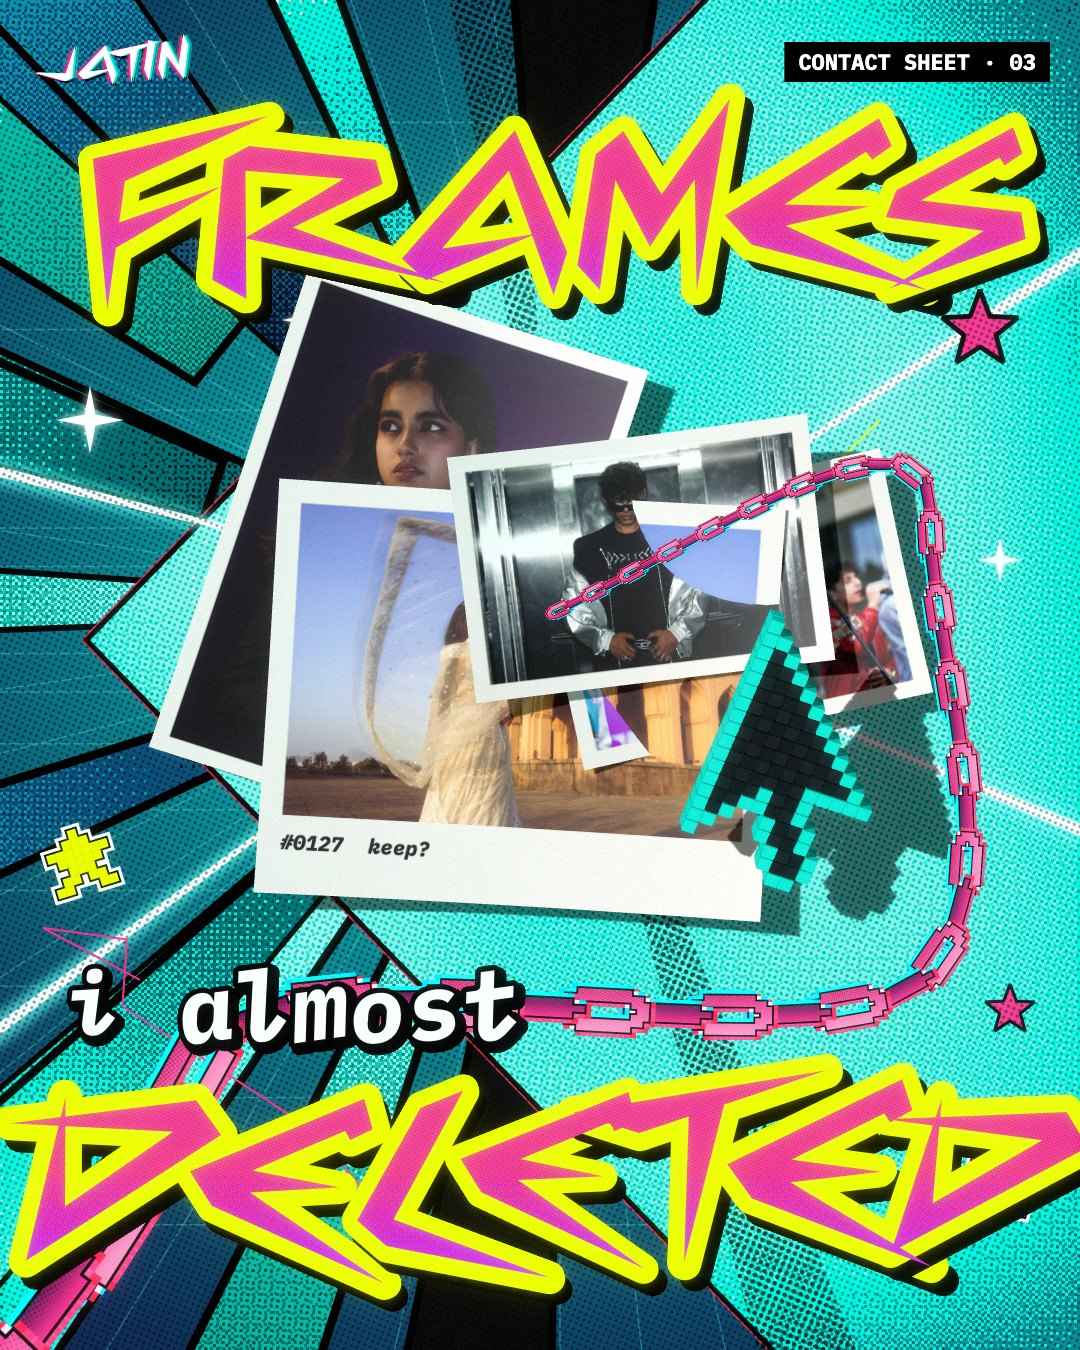
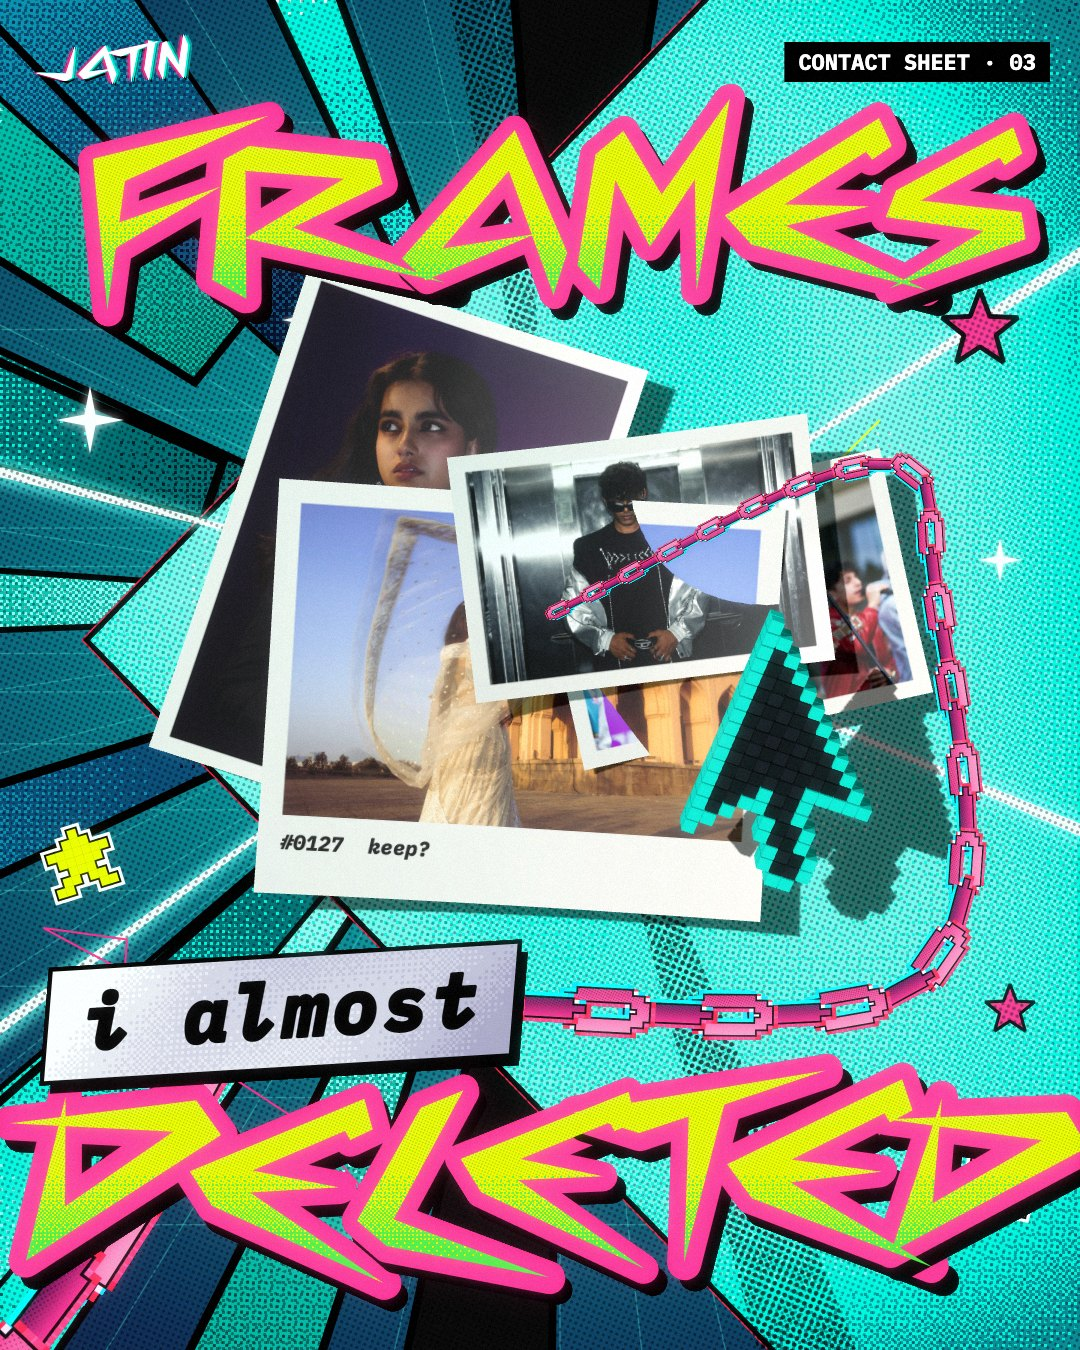
Content look round 5: silver plates for the small words, round 3 headline colours

Changed region(s): [[0.0, 0.6844, 1.0, 0.9644], [0.0611, 0.0622, 0.9778, 0.2489]]

diff --git a/docs/studio/studio.html b/docs/studio/studio.html
@@ -41,6 +41,29 @@ function glyphRun(text,font,size,track){
   for(const ch of text){const w=c.measureText(ch).width;g.push({ch,x,w});x+=w+track*size}
   return{g,w:x-track*size};
 }
+// The site's silver plate (ABOUT's name tag and copy plate, round 5 of the posts, his ask): paper dithered into the
+// silver ramp (white -> lavender grey, DitherFX's light-shape ramp) in 3px Bayer cells, skewed, an ink rule, a hard
+// ink drop, and ink type in Plex Mono italic 700, fattened with an ink stroke so it reads bold.
+function silverPlate(O,text,cx,cy,size,rot,cw){
+  const font=`italic 700 ${size}px "IBM Plex Mono"`,track=size*.06,run=glyphRun(text,'italic 700 "IBM Plex Mono"',size,.06);
+  const padX=size*.5,padY=size*.3,w=run.w+padX*2,h=size*.9+padY*2,cell=Math.max(3,Math.round(cw/360)),sk=Math.tan(-8*Math.PI/180);
+  const lw=Math.ceil(w/cell),lh=Math.ceil(h/cell),dc=mk(lw,lh),dx=dc.getContext('2d'),im=dx.createImageData(lw,lh),d=im.data;
+  const W=[255,255,255],lo=[171,165,196],ramp=[lo,[213,210,226],W,W,W].map((c,i)=>i<3?c:W);
+  const RAMP5=[[171,165,196],[192,188,212],[213,210,226],[234,232,240],[255,255,255]];
+  for(let y=0;y<lh;y++)for(let x=0;x<lw;x++){const u=x/lw,v=y/lh;
+    // light on the left, stepping down to lavender toward the right end, with one slow band across it
+    let tone=1-u*.95+.18*Math.sin(6.283*(u*1.2+v*.35)+1.3);tone=clamp(tone);
+    const f=tone*4,k=f|0,c=RAMP5[Math.min(4,k+((f-k)>bay(x,y)?1:0))],o=(y*lw+x)*4;d[o]=c[0];d[o+1]=c[1];d[o+2]=c[2];d[o+3]=255}
+  dx.putImageData(im,0,0);
+  O.save();O.translate(cx,cy);O.rotate(rot);O.transform(1,0,sk,1,0,0);
+  O.fillStyle='#000';O.fillRect(-w/2+size*.12,-h/2+size*.14,w,h);
+  O.imageSmoothingEnabled=false;O.drawImage(dc,-w/2,-h/2,w,h);O.imageSmoothingEnabled=true;
+  O.lineWidth=Math.max(4,size*.06);O.strokeStyle='#000';O.strokeRect(-w/2,-h/2,w,h);
+  O.transform(1,0,-sk*.5,1,0,0);O.font=font;O.textBaseline='middle';O.textAlign='left';O.lineJoin='round';
+  O.fillStyle='#000';O.strokeStyle='#000';O.lineWidth=size*.05;
+  run.g.forEach(g=>{O.strokeText(g.ch,-run.w/2+g.x,size*.04);O.fillText(g.ch,-run.w/2+g.x,size*.04)});
+  O.restore();
+}
 function paintType(cw,ch,lines,opt={}){
   const out=mk(cw,ch),O=out.getContext('2d');
   const fillC=mk(cw,ch),F=fillC.getContext('2d');
@@ -53,6 +76,7 @@ function paintType(cw,ch,lines,opt={}){
     const run=glyphRun(L.t,style==='mono'?'italic 700 "IBM Plex Mono"':(style==='pix'?'"VT323"':'"Cyberway Riders"'),size,L.track??(style==='marker'?.1:.02));
     let x0=L.x*cw-(L.align==='left'?0:L.align==='right'?run.w:run.w/2);
     const y0=L.y*ch;
+    if(style==='plate'){const rot=L.rot||0,cx=L.x*cw,cy=y0;late.push(()=>silverPlate(O,L.t,cx,cy,size,rot,cw));continue}
     bands.push({y:y0-size*.55,h:size*1.05});
     run.g.forEach((gl,i)=>{
       const seed=(L.seed||1)*97+i;
@@ -267,8 +291,9 @@ const SHARD_FAM={
   [PAL.pink]:[['#3a0a52','#9a1460','#ff2e88','#ff8cc0'],['#2a0640','#7a12b0','#c81ee0','#e48cf2'],['#14043c','#3a0a6a','#7a12b0','#c81ee0'],['#5a0a3a','#c81ee0','#ff2e88','#ffc2dc']],
   [PAL.cyan]:[['#00262a','#006f73','#00f0d8','#7ffcef'],['#04122e','#0a4f7a','#0b8fb0','#00f0d8'],['#00201c','#0b6a60','#00b8a6','#7ffcef'],['#06183a','#0a4f7a','#00f0d8','#e9fffc']],
   [PAL.acid]:[['#1a3d00','#39e639','#e8ff00','#f4ff8a'],['#062a0c','#147a2a','#39e639','#a8ff6a'],['#0a2a06','#2e6a10','#8ac600','#e8ff00'],['#1a3d00','#6fbf00','#e8ff00','#fdffe0']]};
-// the type takes the colours that fight the world: acid on pink, pink on cyan, pink on acid with a purple rule
-const TYPE_ON={[PAL.pink]:{fill:PAL.acid,outline:PAL.cyan,foot:PAL.green},[PAL.cyan]:{fill:PAL.pink,outline:PAL.acid,foot:PAL.mag},[PAL.acid]:{fill:PAL.pink,outline:PAL.purple,foot:PAL.mag}};
+// headline colours: round 3's acid fill, green foot and pink rim on every world (his call, 2026-11-10; the round 4
+// contrast pairs were reverted)
+const R3TYPE={fill:PAL.acid,outline:PAL.pink,foot:PAL.green},TYPE_ON={[PAL.pink]:R3TYPE,[PAL.cyan]:R3TYPE,[PAL.acid]:R3TYPE};
 const worldType=(acc,lines)=>paintType(PW*2,PH*2,lines.map(L=>L.style?L:{...L,fill:TYPE_ON[acc].fill,outline:TYPE_ON[acc].outline}),{foot:TYPE_ON[acc].foot});
 function siteWorld(acc,o){
   SEED=o.seed||7;const w=PW,h=PH,c=mk(w*SS2,h*SS2),x=c.getContext('2d');x.scale(SS2,SS2);
@@ -425,7 +450,7 @@ DRAFTS.p1=async()=>{ // STOP editing SAFE — pink world; the chain comes out of
   const [dc,dx]=frameCanvas();[[0,-210,-230,1.2],[1,310,-400,-.7]].forEach(([n,ox,oy,da])=>{const l=links[brk+n];chLink(dx,l.i,l.x+ox,l.y+oy,l.a+da,l.c*1.1,pal)});SCN.add(framePlane(dc,1.9));
   const T=worldType(acc,[
     {t:'STOP',size:.27,x:.48,y:.185,rot:-.07,seed:3},
-    {t:'editing',style:'mono',size:.085,x:.7,y:.31,rot:-.06,seed:5},
+    {t:'editing',style:'plate',size:.07,x:.72,y:.31,rot:-.05,seed:5},
     {t:'SAFE',size:.28,x:.5,y:.435,rot:.04,seed:9}
   ]);
   SCN.add(framePlane(T,.9));
@@ -447,7 +472,7 @@ DRAFTS.p2=async()=>{ // FRAMES i almost DELETED — cyan world; the stack sits i
   const [ux,uz]=at(800,760,2.2);cur.position.set(ux,2.2,uz);cur.rotation.set(-1.15,0,-.35);SCN.add(cur);
   const T=worldType(acc,[
     {t:'FRAMES',size:.185,x:.52,y:.16,rot:-.05,seed:11},
-    {t:'i almost',style:'mono',size:.085,x:.27,y:.75,rot:-.08,seed:2},
+    {t:'i almost',style:'plate',size:.07,x:.26,y:.75,rot:-.06,seed:2},
     {t:'DELETED',size:.19,x:.5,y:.87,rot:.05,seed:21}
   ]);
   SCN.add(framePlane(T,1.5));
@@ -461,7 +486,7 @@ DRAFTS.p3=async()=>{ // CUT IT in one NIGHT — acid world; the light comes out 
     pixels:[[1010,1120,PAL.pink,1,.25],[70,1250,PAL.cyan,0,-.2]],scribbles:[[120,760,'#ff2e88'],[900,1120,'#00f0d8']]});
   const T=worldType(acc,[
     {t:'CUT IT',size:.25,x:.49,y:.17,rot:-.06,seed:4},
-    {t:'in one',style:'mono',size:.08,x:.76,y:.285,rot:-.05,seed:8},
+    {t:'in one',style:'plate',size:.068,x:.76,y:.285,rot:-.05,seed:8},
     {t:'NIGHT',size:.25,x:.5,y:.385,rot:.04,seed:6}
   ]);
   SCN.add(framePlane(T,1.2));

diff --git a/docs/concepts/2026-11-09-content-look/index.html b/docs/concepts/2026-11-09-content-look/index.html
@@ -40,9 +40,28 @@ figcaption b{color:var(--fg)}
 </style>
 
 <main class="wrap">
-  <p class="lbl">justjatin · content look · round 4 · posts · 10 nov 2026</p>
+  <p class="lbl">justjatin · content look · round 5 · posts · 10 nov 2026</p>
   <h1>Your language, at their production level</h1>
   <p class="lede">Only the design and craft of your four references were looked at, never the topic. Below: what makes them land, how each move maps onto your language, and ten first drafts (3 posts, 7 reel frames). The drafts are rendered in a real 3D lighting pass with your own photos, not drawn flat.</p>
+
+  <h2>Round 5 · silver plates, round 3 type colours</h2>
+  <p>Your notes: <i>"switch these normal font's to our silver plate look but make the text look bold"</i>, then <i>"also keep the old font colour scheme from R3"</i>.</p>
+  <ul class="fix">
+    <li><b>The small words are silver plates</b>, the ABOUT name tag and copy plate: paper dithered from white into lavender silver in 3px Bayer cells, skewed, with an ink rule and a hard ink drop.</li>
+    <li><b>The words are bold:</b> ink Plex Mono italic 700, thickened with an ink stroke.</li>
+    <li><b>Headlines are back to round 3's colours</b> on every world: acid fill, green foot, pink rim. The dithered one-colour shards from round 4 stay.</li>
+  </ul>
+  <div class="posts">
+    <figure><img src="img/p1.jpg" width="1080" height="1350" alt="Round 5 post: STOP editing SAFE, editing on a silver dithered plate in bold ink type, acid and pink headline over pink dithered shards"><figcaption><b>STOP editing SAFE.</b></figcaption></figure>
+    <figure><img src="img/p2.jpg" width="1080" height="1350" alt="Round 5 post: FRAMES i almost DELETED, i almost on a silver plate, acid and pink headline over cyan dithered shards"><figcaption><b>FRAMES i almost DELETED.</b></figcaption></figure>
+    <figure><img src="img/p3.jpg" width="1080" height="1350" alt="Round 5 post: CUT IT in one NIGHT, in one on a silver plate, acid and pink headline over acid dithered shards"><figcaption><b>CUT IT in one NIGHT.</b></figcaption></figure>
+  </div>
+  <p class="lbl" style="margin-top:28px">Round 4, for comparison</p>
+  <div class="ba">
+    <figure><img src="img/p1-round4.jpg" width="1080" height="1350" alt="Round 4 STOP editing SAFE with cyan-rimmed type" loading="lazy"><figcaption>R4</figcaption></figure>
+    <figure><img src="img/p2-round4.jpg" width="1080" height="1350" alt="Round 4 FRAMES i almost DELETED with pink type" loading="lazy"><figcaption>R4</figcaption></figure>
+    <figure><img src="img/p3-round4.jpg" width="1080" height="1350" alt="Round 4 CUT IT in one NIGHT with pink and purple type" loading="lazy"><figcaption>R4</figcaption></figure>
+  </div>
 
   <h2>Round 4 · one colour world per post</h2>
   <p>Your note: <i>"the scattered shards in the background needs to have the same dither look we have and keep the same colour consistency as colour theme of the post itself and the text should be contrasting colour to that colour scheme."</i></p>
@@ -51,11 +70,6 @@ figcaption b{color:var(--fg)}
     <li><b>One family per post.</b> Pink: pinks, magentas and purples. Cyan: cyans, teals and deep blues. Acid: acids and greens. The multi-colour shard palette is gone.</li>
     <li><b>The type fights the world.</b> Same treatment, contrasting colours. On pink: an acid fill with a green foot and a cyan rim. On cyan: a pink fill with a magenta foot and an acid rim. On acid: a pink fill with a magenta foot and a purple rim.</li>
   </ul>
-  <div class="posts">
-    <figure><img src="img/p1.jpg" width="1080" height="1350" alt="Round 4 post: STOP editing SAFE in acid with a cyan rim over dithered pink, magenta and purple shards"><figcaption><b>STOP editing SAFE.</b> Pink world, acid and cyan type.</figcaption></figure>
-    <figure><img src="img/p2.jpg" width="1080" height="1350" alt="Round 4 post: FRAMES i almost DELETED in pink with an acid rim over dithered cyan and teal shards"><figcaption><b>FRAMES i almost DELETED.</b> Cyan world, pink and acid type.</figcaption></figure>
-    <figure><img src="img/p3.jpg" width="1080" height="1350" alt="Round 4 post: CUT IT in one NIGHT in pink with a purple rim over dithered acid and green shards"><figcaption><b>CUT IT in one NIGHT.</b> Acid world, pink and purple type.</figcaption></figure>
-  </div>
   <p class="lbl" style="margin-top:28px">Round 3, for comparison</p>
   <div class="ba">
     <figure><img src="img/p1-round3.jpg" width="1080" height="1350" alt="Round 3 STOP editing SAFE with multi-colour flat shards" loading="lazy"><figcaption>R3: mixed flat shards.</figcaption></figure>

diff --git a/docs/concepts/2026-11-09-content-look/README.md b/docs/concepts/2026-11-09-content-look/README.md
@@ -112,3 +112,19 @@ colour scheme."
 | Acid | pink | magenta | purple |
 
 **Stills:** round 3 is `img/p*-round3.jpg`; round 4 is `img/p*.jpg`.
+
+## Round 5 — 2026-11-10 · silver plates, round 3 type colours
+
+**His notes, in his words:** "switch these normal font's to our silver plate look but make the text look bold" (on
+the mono words, with the ABOUT "WHO I AM" tag as the reference), then "and also keep the old font colour scheme from R3".
+
+**Built:**
+- **`silverPlate()`** (type style `plate`): the site's silver plate, built from:
+  - paper dithered in 3px Bayer cells from white into lavender silver (DitherFX's light-shape ramp, #aba5c4 → #fff),
+    light on the left and stepping down to the right;
+  - skewX(−8°), an ink rule and a hard ink drop;
+  - ink Plex Mono italic 700, thickened with an ink stroke for weight.
+- **Headlines:** back to round 3's acid fill, green foot and pink rim on every world (`R3TYPE`). The round 4 contrast
+  pairs were reverted. The dithered one-family shards stay.
+
+**Stills:** round 4 is `img/p*-round4.jpg`; round 5 is `img/p*.jpg`.

diff --git a/docs/HANDOFF.md b/docs/HANDOFF.md
@@ -3,6 +3,12 @@
 Newest on top. Each entry: date · did · in flight · next · watch out.
 
 ---
+## 2026-11-10 — Content look round 5 (silver plates)
+- **His notes:** small mono words → the site's silver plate, bold; keep R3's headline colours.
+- **Did:** `silverPlate()` / style `plate`; `R3TYPE` on every world; doc v5 (same URL), round 4 stills kept.
+- **Next:** his notes; the CRT → his beige computer is still open; then the reels.
+
+---
 ## 2026-11-10 — Content look round 4 (one colour world per post)
 - **His note:** dither the shards, keep them in the post's colour scheme, make the text contrast it.
 - **Did:** `SHARD_FAM` dithered shards, `TYPE_ON` contrasting type colours; doc v4 (same URL), round 3 stills kept.

diff --git a/docs/process/JOURNAL.md b/docs/process/JOURNAL.md
@@ -11,6 +11,13 @@ by piece and marked "Oct 2026".
 ---
 
 
+
+## 2026-11-10 (later) — the small words get the silver plate
+
+He pointed at the plain mono words ("editing", "i almost", "in one") and the ABOUT name tag, and asked for that silver
+plate with bold type. The plate is the site's own: paper dithered from white into lavender silver, skewed, with an ink
+rule and an ink drop. The words are ink mono, thickened to read bold. He also took the headlines back to round 3's
+acid and pink. The contrast colours had pulled them away from the type he already called his.
 ## 2026-11-10 — the site on a slow machine
 
 **His note:** "the website still laggin in mobile and other pc so what i recommend doing is run tests on very low
